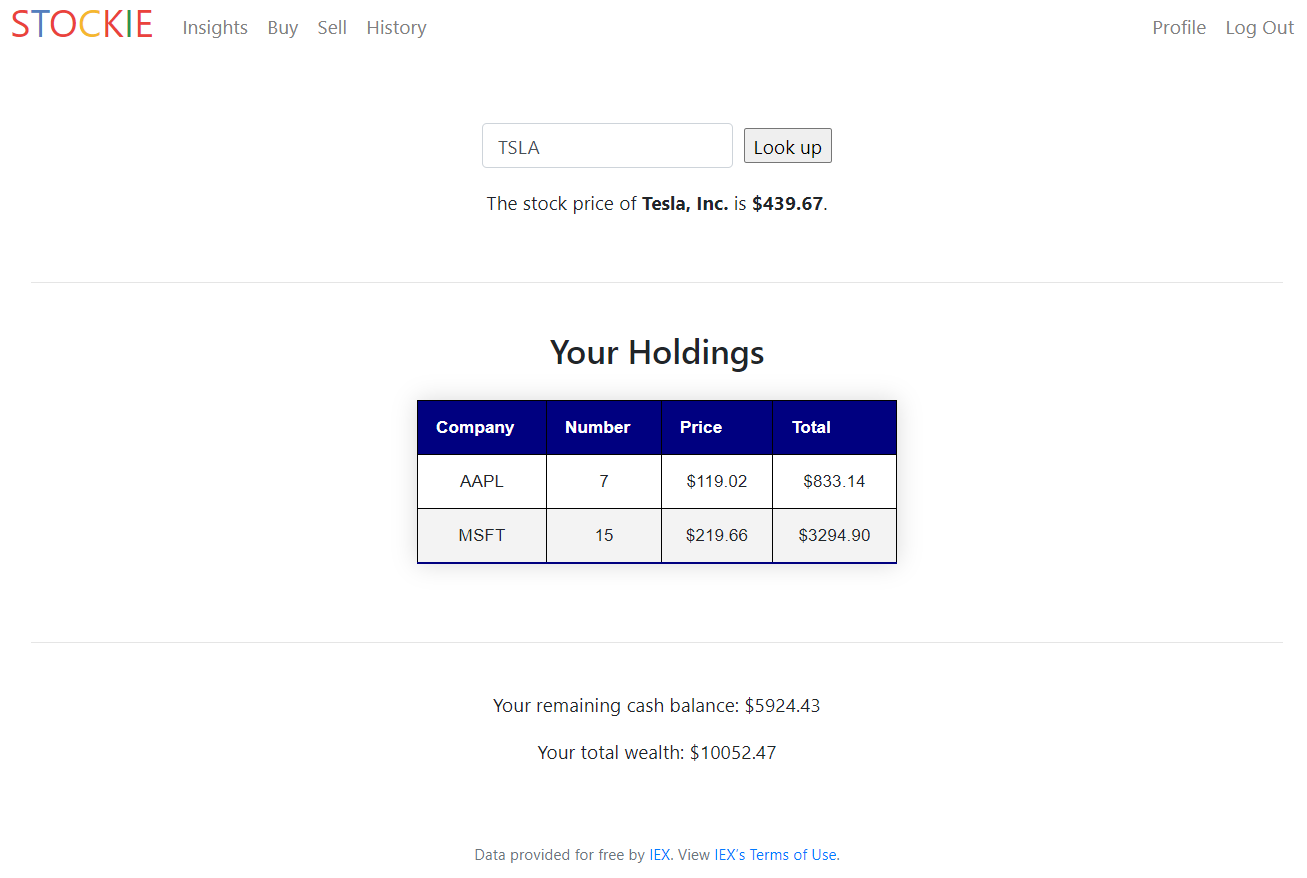
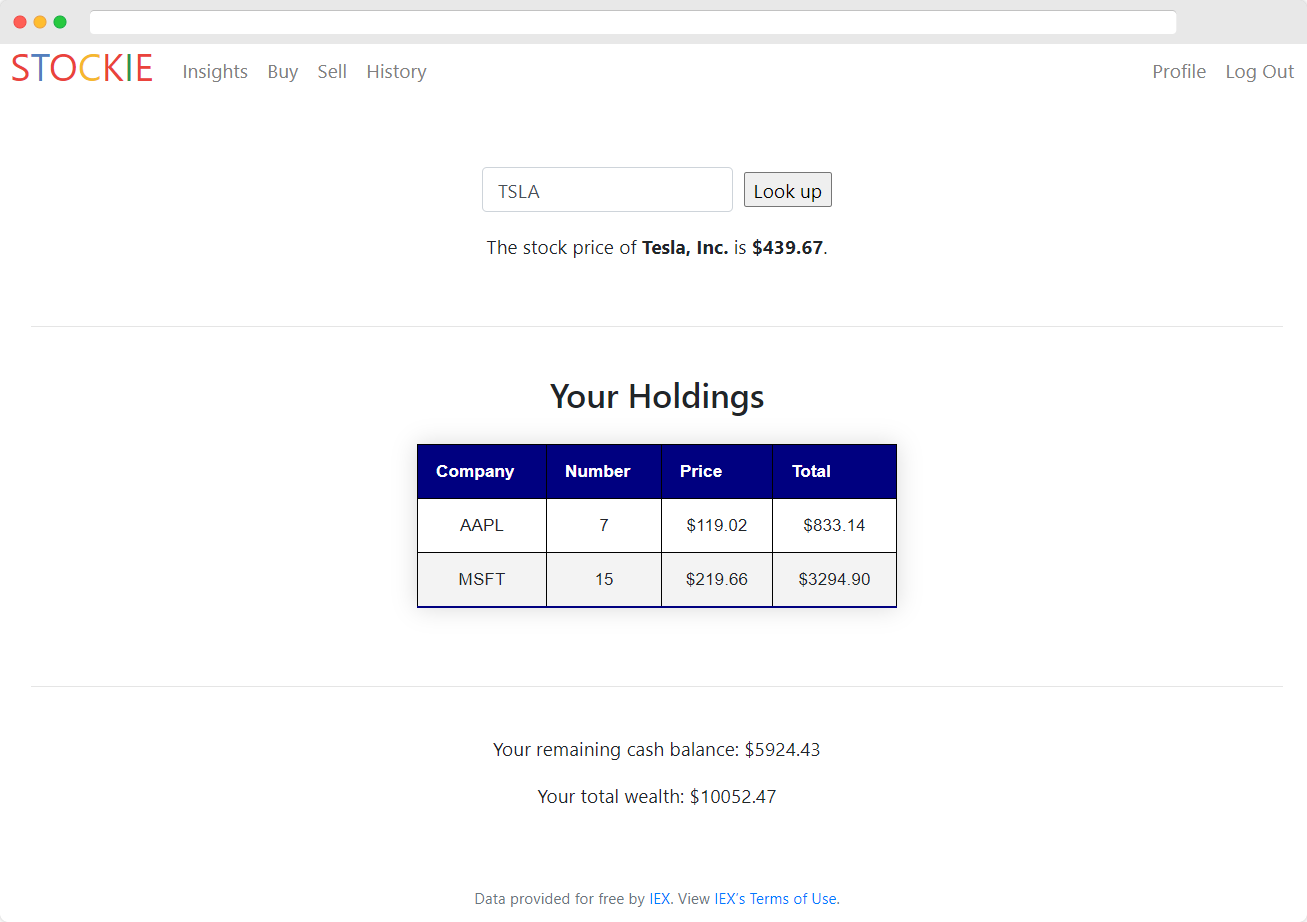
Fix images in title, readme

diff --git a/templates/layout.html b/templates/layout.html
@@ -3,7 +3,7 @@
 <html lang="en">
 
     <head>
-
+        
         <!-- Required meta tags -->
         <meta charset="utf-8">
         <meta name="viewport" content="width=device-width, initial-scale=1, shrink-to-fit=no">
@@ -12,7 +12,7 @@
         <link href="https://maxcdn.bootstrapcdn.com/bootstrap/4.1.3/css/bootstrap.min.css" rel="stylesheet">
 
         <!-- https://favicon.io/emoji-favicons/money-mouth-face/ -->
-        <link href="/static/favicon.ico" rel="icon">
+        <link href="/static/money.svg" rel="icon">
 
         <link href="/static/styles.css" rel="stylesheet">
 

diff --git a/app.py b/app.py
@@ -28,7 +28,7 @@ from src.profile import profile
 from src.insights import insights
 from src.register import register
 from flask_session import Session
-from src.helpers import apology, login_required, getKeys, UserInfo
+from src.helpers import apology
 from werkzeug.exceptions import default_exceptions, HTTPException, InternalServerError
 
 app = Flask(__name__)

diff --git a/README.md b/README.md
@@ -46,7 +46,7 @@
 
 [![Product Name Screenshot][product-screenshot]](https://github.com/shridpant/stockie)
 
-This repository contains the source code for *Stockie*- an investment portfolio management web application. The state-of-the-art recommendation engine provides real-time personalized insights for its users. Analysis of tweets, relevant news, the stocks' historic performances and many other parameters are evaluated for *the most up-to-date* insights.
+This repository contains the source code for *Stockie*- an investment portfolio management web application. The state-of-the-art analysis tools provide real-time insights for its users. Analysis of tweets, relevant news, the stocks' historic performances and many other parameters are evaluated for *the most up-to-date* insights.
 
 ### Built With
 
@@ -98,14 +98,16 @@ Stockie wouldn't be possible without the following resources:
 * [yfinance](https://github.com/ranaroussi/yfinance)
 * [IEX](https://iextrading.com/developer)
 * [News API](https://newsapi.org/)
-* [CS50](https://cs50.harvard.edu/)
 * [Chart.js](https://www.chartjs.org/)
 * [Flask](https://flask.palletsprojects.com/en/1.1.x/)
-* [Jupyter Notebook](https://jupyter.org/)
 * [Bootstrap](https://getbootstrap.com)
+* [CS50](https://cs50.harvard.edu/)
+* [Jupyter Notebook](https://jupyter.org/)
 * [JQuery](https://jquery.com)
 * [Google Fonts](https://fonts.google.com/)
 * [Img Shields](https://shields.io)
+* [Screely](https://www.screely.com/)
+* [Freepik from Flaticon.com](https://www.flaticon.com/authors/freepik)
 
 <!-- MARKDOWN LINKS & IMAGES -->
 [pr]: https://img.shields.io/github/issues-pr/shridpant/stockie
@@ -123,7 +125,7 @@ Stockie wouldn't be possible without the following resources:
 [linkedin-shield]: static/readme/linkedin.svg
 [linkedin-url]: https://www.linkedin.com/in/shridpant/
 [github-shield]: https://img.shields.io/github/followers/shridpant?style=social
-[product-screenshot]: static/readme/screenshot.PNG
-[insights-screenshot]: static/readme/insights-screenshot.PNG
+[product-screenshot]: static/readme/screenshot.png
+[insights-screenshot]: static/readme/insights-screenshot.png
 [company-screenshot]: static/readme/company-screenshot.png
-[profile-screenshot]: static/readme/profile-screenshot.PNG
+[profile-screenshot]: static/readme/profile-screenshot.png
